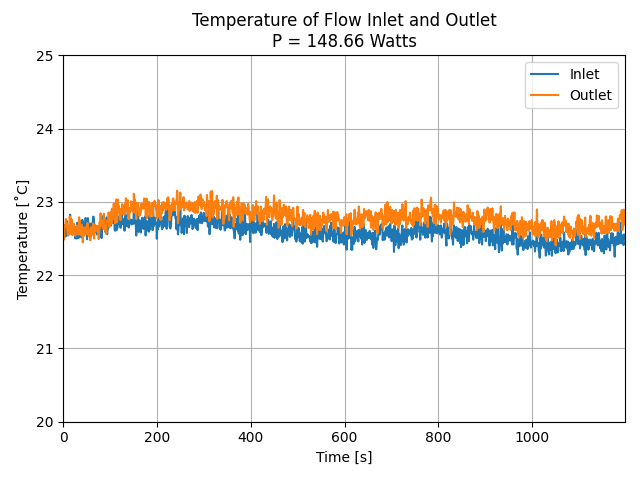
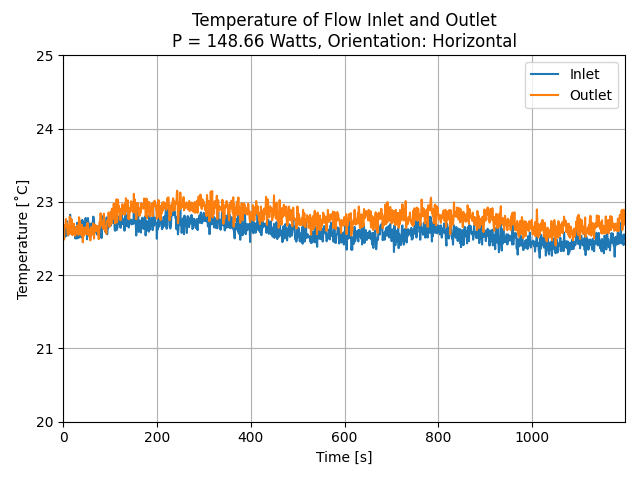
Accurate graph titles, Added Average Temperature Graphs

Changed region(s): [[0.25, 0.0625, 0.8125, 0.125]]

diff --git a/graph.py b/graph.py
@@ -1,10 +1,12 @@
+import os
+import glob
+import re
 import pandas as pd
 import matplotlib.pyplot as plt
-import os
 
 # plot PEM temps
 def plot_pem(filename):
-    plt.figure()
+    plt.figure(figsize=(9,6))
     df = pd.read_excel(filename, usecols="A,B,D,F,H,J,L,N,P")
     plt.plot(df.iloc[:, 0], df.iloc[:, 1:], label=['TC0', 'TC1', 'TC2', 'TC3', 'TC4', 'TC12', 'TC13', 'TC14'])
     plt.xlim(0, df.iloc[-1, 0])
@@ -18,7 +20,7 @@ def plot_pem(filename):
     output_dir = f"figures/{orientation}"
     os.makedirs(output_dir, exist_ok=True)
 
-    plt.title(f"Temperature of Power Electronics Module at Different Locations\nP = {wattage}")
+    plt.title(f"Temperature of Power Electronics Module at Different Locations\nP = {wattage}, Orientation: {orientation.capitalize()}")
     plt.ylabel("Temperature [˚C]")
     plt.xlabel("Time [s]")
     plt.legend()
@@ -44,7 +46,7 @@ def plot_flowports(filename):
     output_dir = f"figures/{orientation}"
     os.makedirs(output_dir, exist_ok=True)
 
-    plt.title(f"Temperature of Flow Inlet and Outlet\nP = {wattage}")
+    plt.title(f"Temperature of Flow Inlet and Outlet\nP = {wattage}, Orientation: {orientation.capitalize()}")
     plt.ylabel("Temperature [˚C]")
     plt.xlabel("Time [s]")
     plt.legend()
@@ -54,23 +56,67 @@ def plot_flowports(filename):
     output_filename = f"{output_dir}/{wattage} Flowports.png"
     plt.savefig(output_filename)
 
-plot_pem("data/horizontal/19.8W_PEM.xlsx")
-plot_pem("data/horizontal/97.5W_PEM.xlsx")
-plot_pem("data/horizontal/148.66W_PEM.xlsx")
-plot_pem("data/horizontal/198.2W_PEM.xlsx")
+def plot_avg_temp_by_power(data_dir):
+    # Find all matching Excel files
+    files = glob.glob(os.path.join(data_dir, "*PEM.xlsx"))
+    if not files:
+        print("No Excel files found in the directory.")
+        return
 
-plot_flowports("data/horizontal/19.8W_IO.xlsx")
-plot_flowports("data/horizontal/97.5W_IO.xlsx")
-plot_flowports("data/horizontal/148.66W_IO.xlsx")
-plot_flowports("data/horizontal/198.2W_IO.xlsx")
+    # Extract (numeric_power, file_path) tuples
+    power_file_pairs = []
+    for file in files:
+        base = os.path.basename(file)
+        match = re.match(r"(\d+(?:\.\d+)?)[Ww]", base)
+        if match:
+            power = float(match.group(1))
+            power_file_pairs.append((power, file))
 
-plot_pem("data/vertical/20W_Vert_PEM.xlsx")
-plot_pem("data/vertical/100W_Vert_PEM.xlsx")
-plot_pem("data/vertical/150W_Vert_PEM.xlsx")
-plot_pem("data/vertical/200W_Vert_PEM.xlsx")
+    # Sort by power level
+    power_file_pairs.sort()
 
-plot_flowports("data/vertical/20W_Vert_IO.xlsx")
-plot_flowports("data/vertical/100W_Vert_IO.xlsx")
-plot_flowports("data/vertical/150W_Vert_IO.xlsx")
-plot_flowports("data/vertical/200W_Vert_IO.xlsx")
+    plt.figure(figsize=(10, 6))
+
+    for power, file in power_file_pairs:
+        df = pd.read_excel(file, usecols="A,B,D,F,H,J,L,N,P")
+        time = df.iloc[:, 0]
+        temps = df.iloc[:, 1:]
+        avg_temp = temps.mean(axis=1)
+        plt.plot(time, avg_temp, label=f"{power} W")
+
+    orientation = "Horizontal" if "horizontal" in data_dir.lower() else "Vertical"
+
+    plt.title(f"Average Temperature of PEM Over Time\nOrientation: {orientation}")
+    plt.xlabel("Time [s]")
+    plt.ylabel("Average Temperature [˚C]")
+    plt.legend(title="Power Level")
+    plt.grid(True)
+    plt.tight_layout()
+
+    output_dir = f"figures/{orientation.lower()}"
+    os.makedirs(output_dir, exist_ok=True)
+    plt.savefig(f"{output_dir}/Average_Temperature_by_Power_{orientation}.png", bbox_inches='tight')
+
+# plot_pem("data/horizontal/19.8W_PEM.xlsx")
+# plot_pem("data/horizontal/97.5W_PEM.xlsx")
+# plot_pem("data/horizontal/148.66W_PEM.xlsx")
+# plot_pem("data/horizontal/198.2W_PEM.xlsx")
+
+# plot_flowports("data/horizontal/19.8W_IO.xlsx")
+# plot_flowports("data/horizontal/97.5W_IO.xlsx")
+# plot_flowports("data/horizontal/148.66W_IO.xlsx")
+# plot_flowports("data/horizontal/198.2W_IO.xlsx")
+
+# plot_pem("data/vertical/20W_Vert_PEM.xlsx")
+# plot_pem("data/vertical/100W_Vert_PEM.xlsx")
+# plot_pem("data/vertical/150W_Vert_PEM.xlsx")
+# plot_pem("data/vertical/200W_Vert_PEM.xlsx")
+
+# plot_flowports("data/vertical/20W_Vert_IO.xlsx")
+# plot_flowports("data/vertical/100W_Vert_IO.xlsx")
+# plot_flowports("data/vertical/150W_Vert_IO.xlsx")
+# plot_flowports("data/vertical/200W_Vert_IO.xlsx")
+
+plot_avg_temp_by_power("data/horizontal")
+plot_avg_temp_by_power("data/vertical")
 plt.show()
